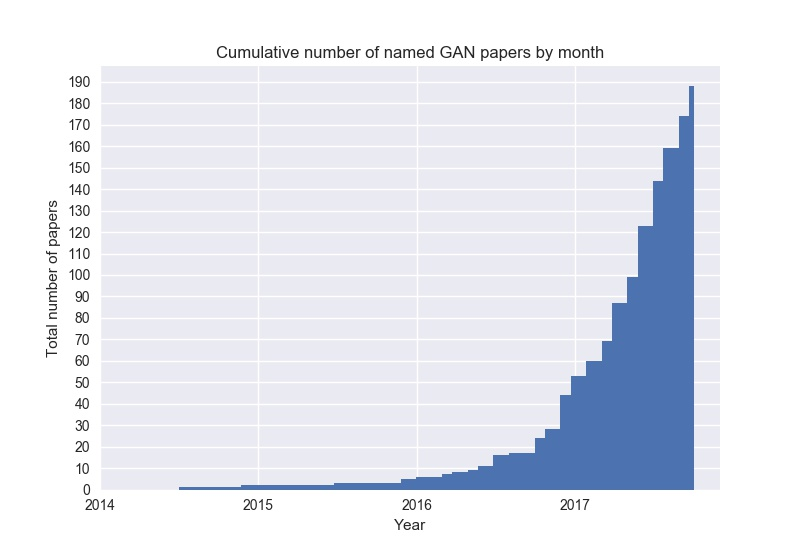
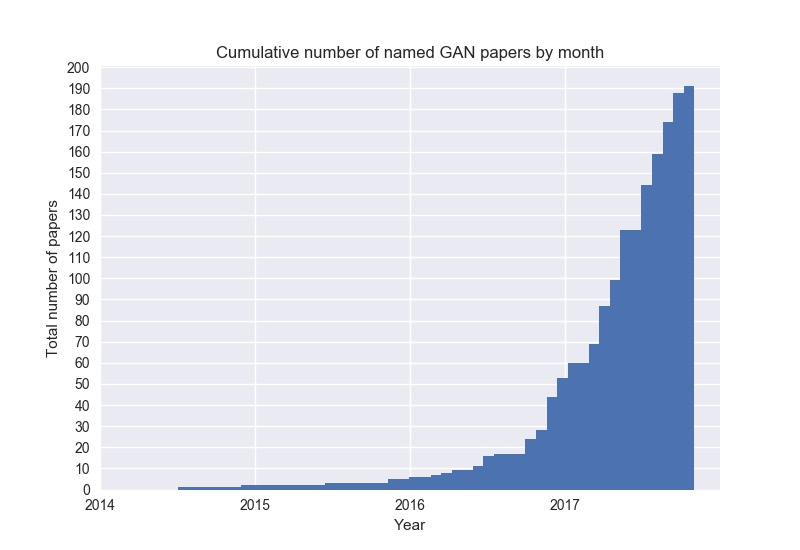
add CM-GAN, GAP, GP-GAN; fix repo link (issue #37), fix histogram plot issue
For RNN-WGAN the link to the official repository is used (issue #37).
The cumulative GAN histogram has rendering issues when the number of distinct
elements exceeds 100; using the month range to compute the number of histogram
bins.
New GANs:
- Cross-Modal GAN (CM-GAN)
- Generative Adversarial Policy (GAP)
- Gender Preserving GAN (GP-GAN)

diff --git a/update.py b/update.py
@@ -33,10 +33,11 @@ def update_figure(gans):
     """ Update the figure cumulative_gans.jpg """
     data = np.array([int(gan['Year']) + int(gan['Month']) / 12
                      for gan in gans])
+    x_range = int(np.ceil(np.max(data) - np.min(data)) * 12) + 1
     y_range = int(np.ceil(data.size / 10)) * 10 + 1
 
     with plt.style.context("seaborn"):
-        plt.hist(data, 100, cumulative="True")
+        plt.hist(data, x_range, cumulative="True")
         plt.xticks(range(2014, 2018))
         plt.yticks(np.arange(0, y_range, 10))
         plt.title("Cumulative number of named GAN papers by month")

diff --git a/README.md b/README.md
@@ -49,6 +49,7 @@ Check out [Deep Hunt](https://deephunt.in) - my weekly AI newsletter for this re
 * CGAN - [Conditional Generative Adversarial Nets](https://arxiv.org/abs/1411.1784) 
 * CGAN - [Controllable Generative Adversarial Network](https://arxiv.org/abs/1708.00598) 
 * Chekhov GAN - [An Online Learning Approach to Generative Adversarial Networks](https://arxiv.org/abs/1706.03269) 
+* CM-GAN - [CM-GANs: Cross-modal Generative Adversarial Networks for Common Representation Learning](https://arxiv.org/abs/1710.05106) 
 * CoGAN - [Coupled Generative Adversarial Networks](https://arxiv.org/abs/1606.07536v2) 
 * Conditional cycleGAN - [Conditional CycleGAN for Attribute Guided Face Image Generation](https://arxiv.org/abs/1705.09966) 
 * constrast-GAN - [Generative Semantic Manipulation with Contrasting GAN](https://arxiv.org/abs/1708.00315) 
@@ -87,6 +88,7 @@ Check out [Deep Hunt](https://deephunt.in) - my weekly AI newsletter for this re
 * GAN-sep - [GANs for Biological Image Synthesis](https://arxiv.org/abs/1708.04692) ([github](https://github.com/aosokin/biogans))
 * GAN-VFS - [Generative Adversarial Network-based Synthesis of Visible Faces from Polarimetric Thermal Faces](https://arxiv.org/abs/1708.02681) 
 * GANCS - [Deep Generative Adversarial Networks for Compressed Sensing Automates MRI](https://arxiv.org/abs/1706.00051) 
+* GAP - [Context-Aware Generative Adversarial Privacy](https://arxiv.org/abs/1710.09549) 
 * GAWWN - [Learning What and Where to Draw](https://arxiv.org/abs/1610.02454) ([github](https://github.com/reedscot/nips2016))
 * GeneGAN - [GeneGAN: Learning Object Transfiguration and Attribute Subspace from Unpaired Data](https://arxiv.org/abs/1705.04932) ([github](https://github.com/Prinsphield/GeneGAN))
 * Geometric GAN - [Geometric GAN](https://arxiv.org/abs/1705.02894) 
@@ -94,6 +96,7 @@ Check out [Deep Hunt](https://deephunt.in) - my weekly AI newsletter for this re
 * GMM-GAN - [Towards Understanding the Dynamics of Generative Adversarial Networks](https://arxiv.org/abs/1706.09884) 
 * GoGAN - [Gang of GANs: Generative Adversarial Networks with Maximum Margin Ranking](https://arxiv.org/abs/1704.04865) 
 * GP-GAN - [GP-GAN: Towards Realistic High-Resolution Image Blending](https://arxiv.org/abs/1703.07195) ([github](https://github.com/wuhuikai/GP-GAN))
+* GP-GAN - [GP-GAN: Gender Preserving GAN for Synthesizing Faces from Landmarks](https://arxiv.org/abs/1710.00962) 
 * GRAN - [Generating images with recurrent adversarial networks](https://arxiv.org/abs/1602.05110) ([github](https://github.com/jiwoongim/GRAN))
 * IAN - [Neural Photo Editing with Introspective Adversarial Networks](https://arxiv.org/abs/1609.07093) ([github](https://github.com/ajbrock/Neural-Photo-Editor))
 * IcGAN - [Invertible Conditional GANs for image editing](https://arxiv.org/abs/1611.06355) ([github](https://github.com/Guim3/IcGAN))
@@ -148,7 +151,7 @@ Check out [Deep Hunt](https://deephunt.in) - my weekly AI newsletter for this re
 * RefineGAN - [Compressed Sensing MRI Reconstruction with Cyclic Loss in Generative Adversarial Networks](https://arxiv.org/abs/1709.00753) 
 * RenderGAN - [RenderGAN: Generating Realistic Labeled Data](https://arxiv.org/abs/1611.01331) 
 * ResGAN - [Generative Adversarial Network based on Resnet for Conditional Image Restoration](https://arxiv.org/abs/1707.04881) 
-* RNN-WGAN - [Language Generation with Recurrent Generative Adversarial Networks without Pre-training](https://arxiv.org/abs/1706.01399) ([github](https://github.com/liuyuemaicha/Adversarial-Learning-for-Neural-Dialogue-Generation-in-Tensorflow))
+* RNN-WGAN - [Language Generation with Recurrent Generative Adversarial Networks without Pre-training](https://arxiv.org/abs/1706.01399) ([github](https://github.com/amirbar/rnn.wgan))
 * RPGAN - [Stabilizing GAN Training with Multiple Random Projections](https://arxiv.org/abs/1705.07831) ([github](https://github.com/ayanc/rpgan))
 * RTT-GAN - [Recurrent Topic-Transition GAN for Visual Paragraph Generation](https://arxiv.org/abs/1703.07022v2) 
 * RWGAN - [Relaxed Wasserstein with Applications to GANs](https://arxiv.org/abs/1705.07164) 
